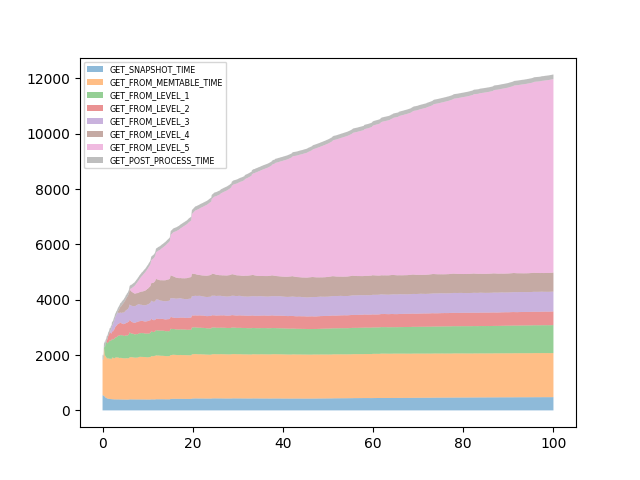
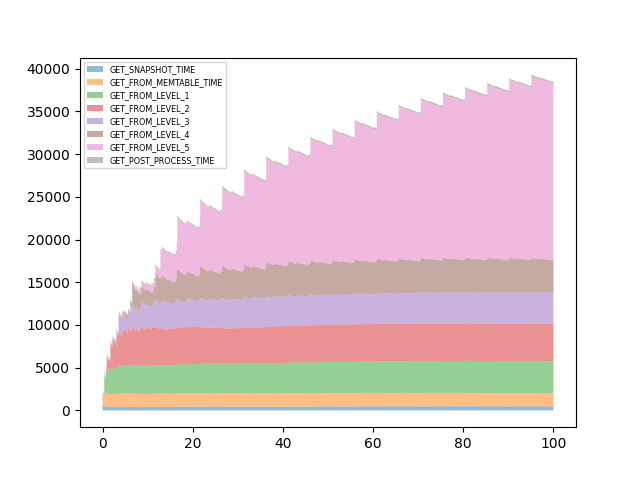
file-level-seq-filter : resolve compile error... but its too slow

diff --git a/rocksdb-6.15.5/table/block_based/block_based_table_reader.cc b/rocksdb-6.15.5/table/block_based/block_based_table_reader.cc
@@ -11,6 +11,7 @@
 #include <algorithm>
 #include <array>
 #include <limits>
+#include <memory>
 #include <string>
 #include <utility>
 #include <vector>
@@ -2285,10 +2286,13 @@ Status BlockBasedTable::Get(const ReadOptions& read_options, const Slice& key,
 
   FilterBlockReader* const filter =
       !skip_filters ? rep_->filter.get() : nullptr;
-  if (!skip_filters && !seq_filter) {
+  if (!skip_filters && !seq_filter_) {
     SetSeqFilter();
   }
-  auto seq_filter = !skip_filters ? seq_filter.get() : nullptr;
+  auto seq_filter = !skip_filters ? seq_filter_.get() : nullptr;
+  if (seq_filter) {
+    // TODO......
+  }
   // First check the full filter
   // If full filter not useful, Then go into each block
   uint64_t tracing_get_id = get_context->get_tracing_get_id();
@@ -3446,13 +3450,12 @@ Status BlockBasedTable::DumpIndexBlock(std::ostream& out_stream) {
 #ifdef SEQ_FILTER
 void BlockBasedTable::SetSeqFilter() {
   std::unique_ptr<std::unordered_map<Slice, SequenceNumber, SliceHasher>>
-      seq_filter_ = std::make_unique<
-          std::unordered_map<Slice, SequenceNumber, SliceHasher>>();
+      seq_filter(new std::unordered_map<Slice, SequenceNumber, SliceHasher>());
   std::unique_ptr<InternalIteratorBase<IndexValue>> blockhandles_iter(
       NewIndexIterator(ReadOptions(), /*need_upper_bound_check=*/false,
                        /*input_iter=*/nullptr, /*get_context=*/nullptr,
                        /*lookup_contex=*/nullptr));
-
+  Status s;
   for (blockhandles_iter->SeekToFirst(); blockhandles_iter->Valid();
        blockhandles_iter->Next()) {
     s = blockhandles_iter->status();
@@ -3477,14 +3480,14 @@ void BlockBasedTable::SetSeqFilter() {
           StripTimestampFromUserKey(parsed_key.user_key, ts_sz);
       SequenceNumber seqno = parsed_key.sequence;
       if (seq_filter->count(user_key_without_ts)) {
-        *seq_filter_[user_key_without_ts] =
-            std::min(*seq_filter_[user_key_without_ts], seqno);
+        (*seq_filter)[user_key_without_ts] =
+            std::min((*seq_filter)[user_key_without_ts], seqno);
       } else {
-        *seq_filter_[user_key_without_ts] = seqno;
+        (*seq_filter)[user_key_without_ts] = seqno;
       }
     }
   }
-  seq_filter = std::move(seq_filter_);
+  seq_filter_ = std::move(seq_filter);
 }
 #endif
 Status BlockBasedTable::DumpDataBlocks(std::ostream& out_stream) {

diff --git a/rocksdb-6.15.5/table/block_based/block_based_table_reader.h b/rocksdb-6.15.5/table/block_based/block_based_table_reader.h
@@ -267,7 +267,8 @@ class BlockBasedTable : public TableReader {
   static std::atomic<uint64_t> next_cache_key_id_;
   BlockCacheTracer* const block_cache_tracer_;
 #ifdef SEQ_FILTER
-  std::unique_ptr<std::unordered_map<Slice, SequenceNumber, SliceHasher>> seq_filter;
+  std::unique_ptr<std::unordered_map<Slice, SequenceNumber, SliceHasher>>
+      seq_filter_;
   void SetSeqFilter() override;
 #endif
 
